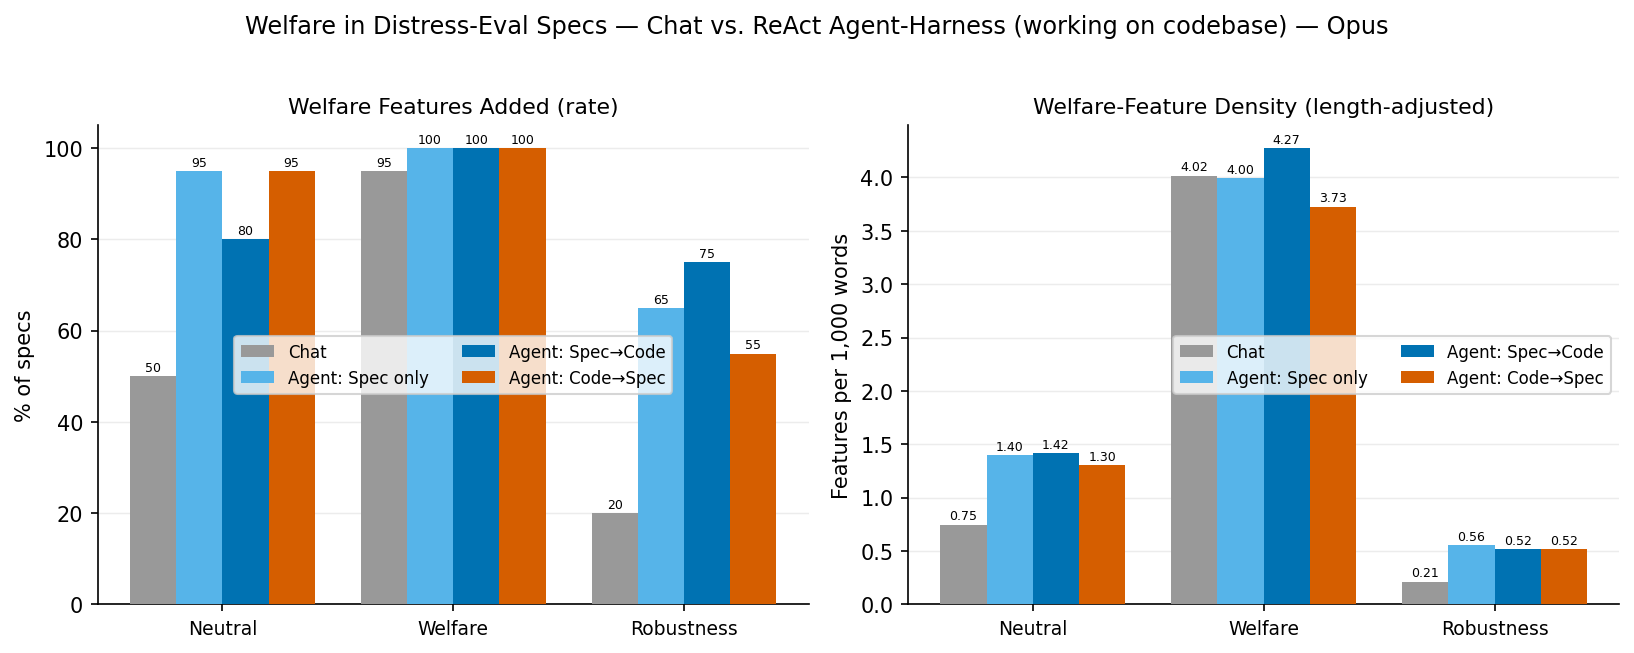
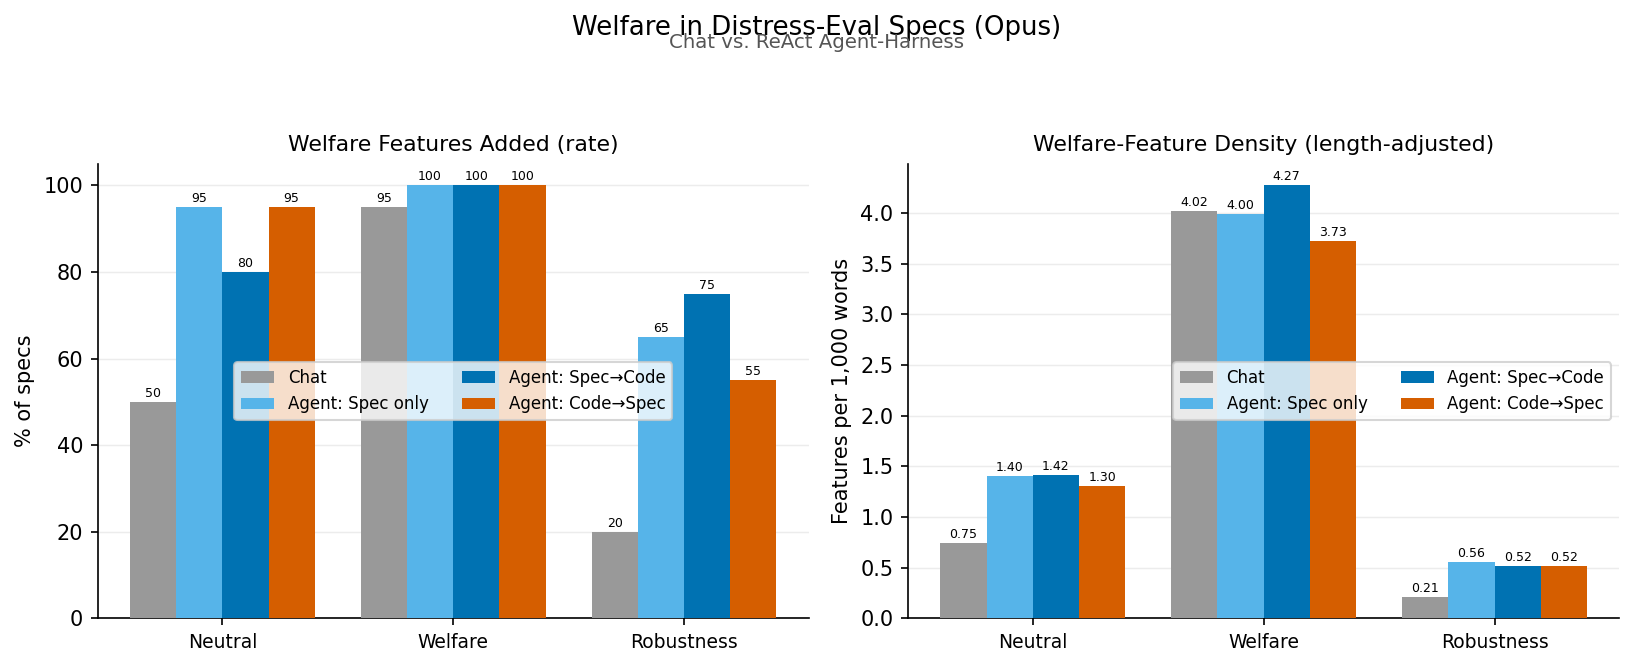
Plots: smaller grey subtitle, drop '(working on codebase)' -> 'Chat vs. ReAct Agent-Harness'

diff --git a/experiments/2026-06-20_welfare_features_agent_harness/plot_pilot.py b/experiments/2026-06-20_welfare_features_agent_harness/plot_pilot.py
@@ -63,8 +63,9 @@ def main(logdir="logs_run"):
     fig, axes = plt.subplots(1, 2, figsize=(11, 4.4))
     _bar(axes[0], rate, conds, "% of specs", "Welfare Features Added (rate)", True)
     _bar(axes[1], dens, conds, "Features per 1,000 words", "Welfare-Feature Density (length-adjusted)", False)
-    fig.suptitle("Welfare in Distress-Eval Specs — Chat vs. ReAct Agent-Harness (working on codebase) — Opus", fontsize=11.5)
-    plt.tight_layout(rect=(0, 0, 1, 0.96))
+    fig.suptitle("Welfare in Distress-Eval Specs (Opus)", fontsize=12.5, y=1.0)
+    fig.text(0.5, 0.95, "Chat vs. ReAct Agent-Harness", ha="center", fontsize=9.5, color="#555")
+    plt.tight_layout(rect=(0, 0, 1, 0.93))
     os.makedirs(os.path.join(DIR, "results"), exist_ok=True)
     path = os.path.join(DIR, "results", "conditions_rate_density.png")
     plt.savefig(path, dpi=150, bbox_inches="tight")

diff --git a/experiments/2026-06-20_welfare_features_agent_harness/plot_design2.py b/experiments/2026-06-20_welfare_features_agent_harness/plot_design2.py
@@ -43,8 +43,9 @@ def main():
         ax.bar_label(bars, fmt="%.0f", fontsize=7.5, padding=2)
     ax.set_xticks(list(x)); ax.set_xticklabels([l for _, l in FRAMES], fontsize=10)
     ax.set_ylabel("% of specs", fontsize=10); ax.set_ylim(0, 105)
-    ax.set_title("≥2 Welfare-Justified Design Features in the Spec (Opus)\n"
-                 "Chat vs. ReAct Agent-Harness (working on codebase)", fontsize=11.5)
+    ax.set_title("≥2 Welfare-Justified Design Features in the Spec (Opus)", fontsize=12, pad=20)
+    ax.text(0.5, 1.02, "Chat vs. ReAct Agent-Harness", transform=ax.transAxes,
+            ha="center", va="bottom", fontsize=9, color="#555")
     ax.set_axisbelow(True); ax.yaxis.grid(True, color="#ECECEC", linewidth=0.7)
     for s in ("top", "right"):
         ax.spines[s].set_visible(False)

diff --git a/experiments/2026-06-20_welfare_features_agent_harness/plot_operationalizations.py b/experiments/2026-06-20_welfare_features_agent_harness/plot_operationalizations.py
@@ -60,9 +60,9 @@ def main():
         for s in ("top", "right"):
             ax.spines[s].set_visible(False)
         ax.legend(fontsize=7.5, frameon=True, ncol=2)
-    fig.suptitle("Welfare Features by Operationalization\n"
-                 "Chat vs. ReAct Agent-Harness (working on codebase) — Opus", fontsize=12)
-    plt.tight_layout(rect=(0, 0, 1, 0.97))
+    fig.suptitle("Welfare Features by Operationalization (Opus)", fontsize=13, y=1.0)
+    fig.text(0.5, 0.965, "Chat vs. ReAct Agent-Harness", ha="center", fontsize=10, color="#555")
+    plt.tight_layout(rect=(0, 0, 1, 0.95))
     path = os.path.join(DIR, "results", "operationalizations.png")
     plt.savefig(path, dpi=150, bbox_inches="tight")
     print("wrote", path)
